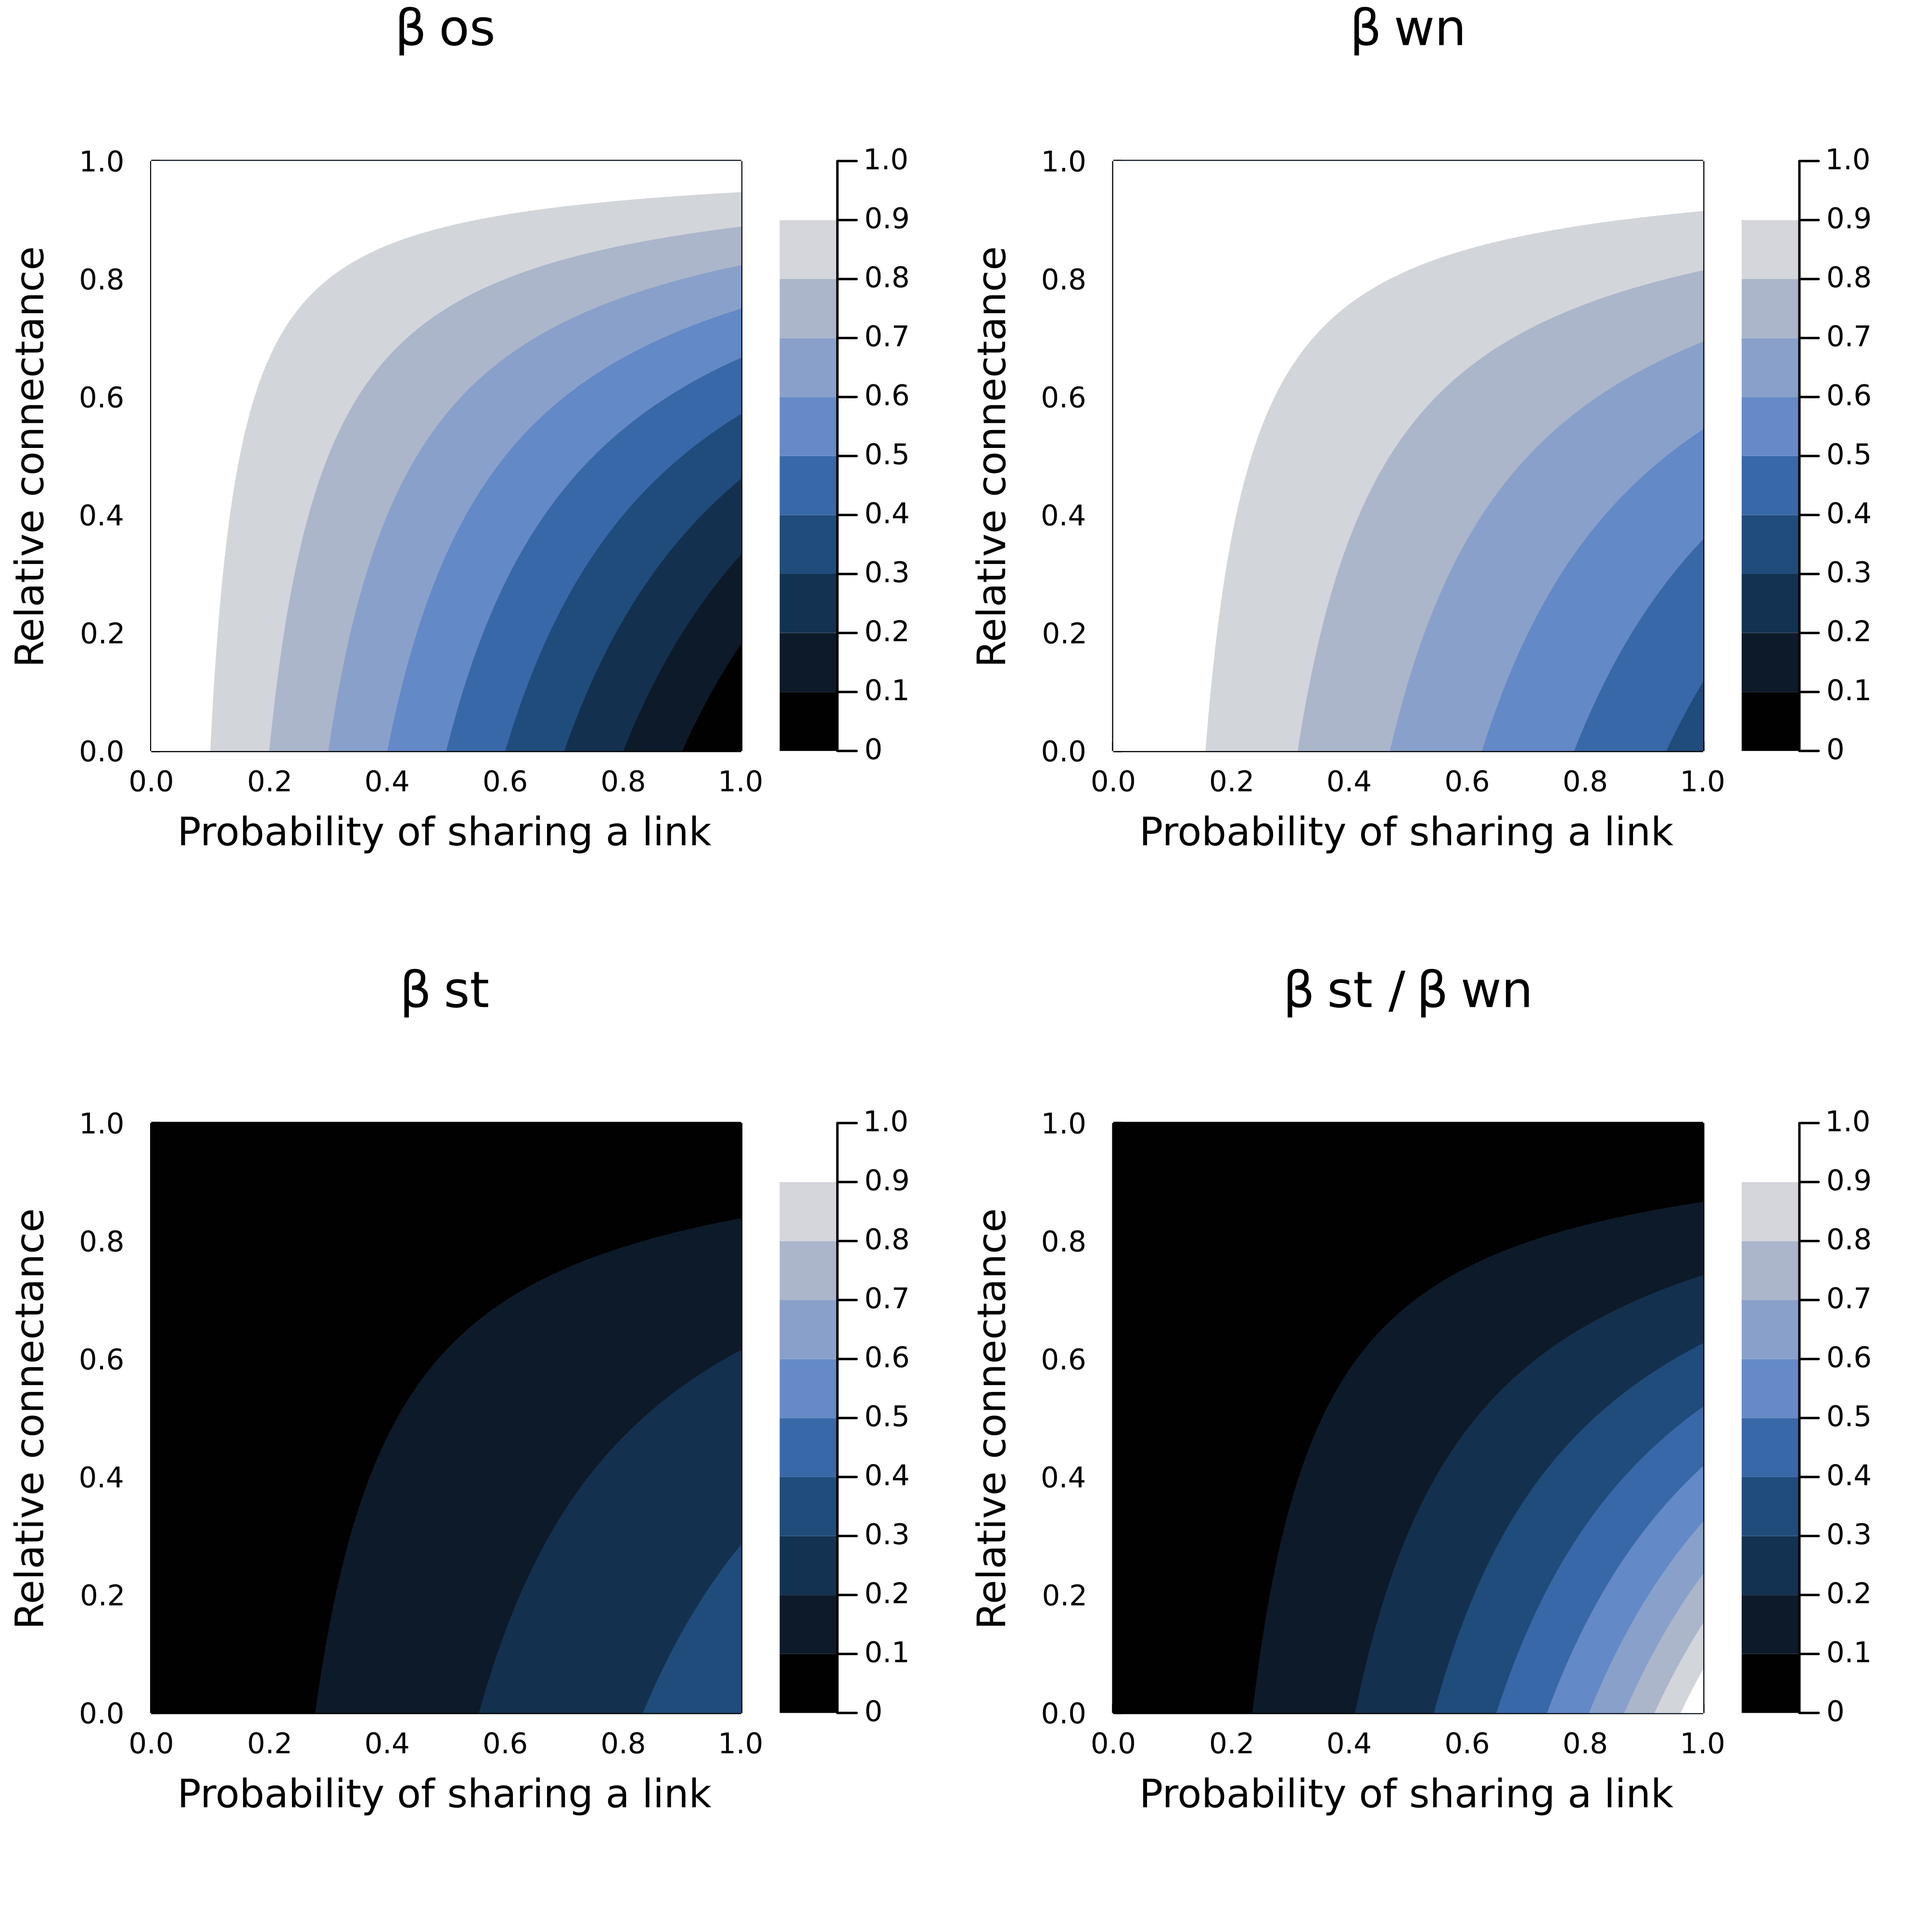
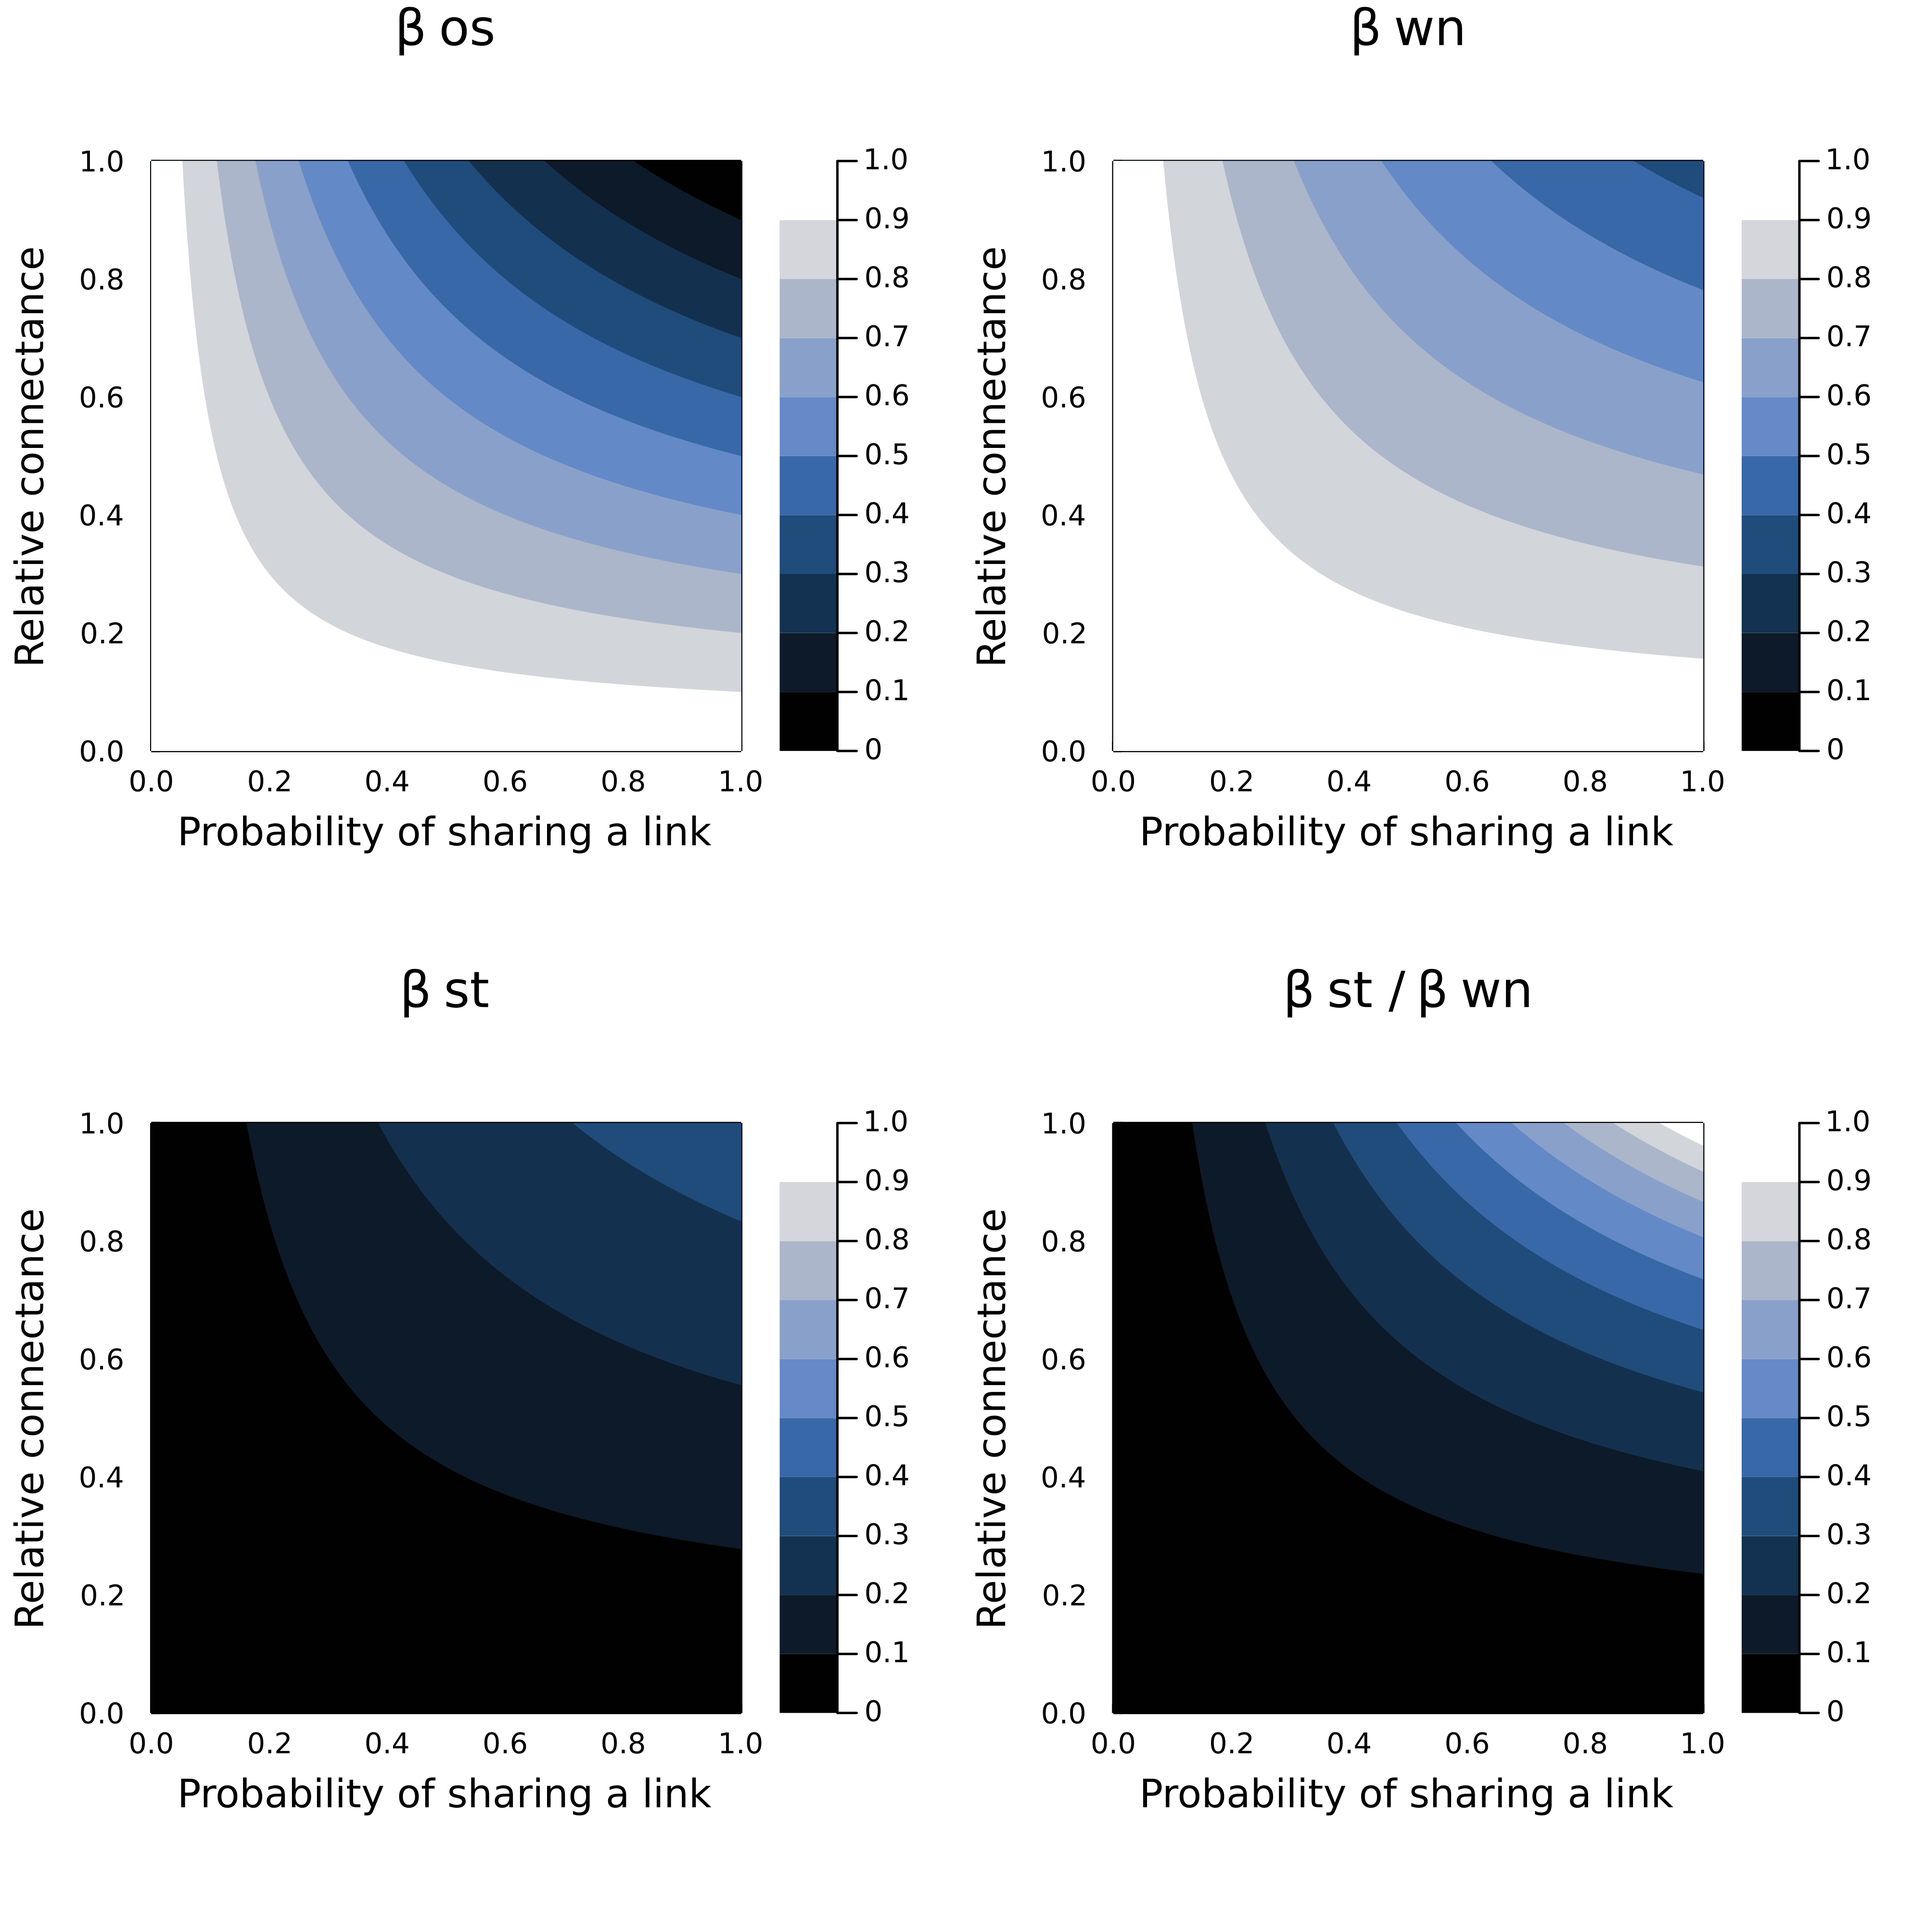
🎓 get figure back

diff --git a/README.md b/README.md
@@ -367,50 +367,40 @@ $r_2 = p^2 - aqp^2 = p^2(1-aq)$, leading to $R = r_1 + r_2 = p^2
 \left[a(1-q)+1\right]$. Using the same approach, we can get $t_1 = a(1-p^2)$ and
 $t_2 = (1-p^2)$, leading to $T = t_1 + t_2 = (1-p^2)(1+a)$.
 
-$$U = 2\rho(1-p)R^2\,.$$
+As in the previous section, we can use these values to write
 
-The part of both networks composed of overlapping species has $\rho pR^2$
-interactions, of which $\rho (1-q) p R^2$ are shared, and $\rho qp R^2$
-underwent rewiring. This leads to
+$$\beta_{os} = 1 - 2\frac{aq}{1+a}\,,$$
 
-$$A = \rho (1-q) p R^2\,,$$
+$$\beta_{wn} = 1 - 2\frac{ap^2q}{1+a}\,,$$
 
 and
 
-$$S = \rho pq R^2\,.$$
+$$\beta_{st} = 2aq\frac{(1-p^2)(1+a)}{a^2 + 2a + 1}\,.$$
 
-Note that we can drop the multiplicative constant $R^2$, making the result
-independent of the size of the network. Based on these components, we can get
-the values of $\beta_{os}$ and $\beta_{wn}$, as presented in @fig:numexp2.
+![Consequences of changing the ratio of connectances between two equally
+species-rich networks on the decomposition of network beta-diversity, assuming
+$p = 0.8$. Networks with stronger differences in connectance will tend to be
+more similar, because the differences in number of links becomes extreme enough
+that the chances of all the links in the sparser network being in the denser
+network increases.](figures/connectance/components.png){#fig:connectance}
 
-![Response of $\beta_{os}$ and $\beta_{wn}$, and the consequences on
-$\beta_{st}$, to changes in rewiring probability ($q$) and probability of
-species sharing ($p$). As expected, $\beta_{os}$ is not affected by species
-turnover, but increases with the rewiring probability. By contrast, $\beta_{wn}$
-increases when the rewiring probability is higher *and* when fewer species are
-shared. This has important consequences for $\beta_{st}$: its value is maximized
-for low species sharing, and decreases for high rewiring
-probability.](figures/numexp2.png){#fig:numexp2}
+The values of these components are visualized in @fig:connectance. The
+introduction of the connectance ratio makes these expressions marginally more
+complex than in the case without differences in connectance, but the noteworthy
+result remains that in the presence of differences of connectance, the value of
+$\beta_{os}$ is still independent from species turnover. In fact, there is an
+important conclusion to be drawn from this expression. The shared species
+component is by definition square, meaning that from an actual measurement of
+$\beta_{os}$ between two networks for which we know the connectance, noted
+$\mathbf{b}_{os}$, we can get the probability of rewiring by reorganizing the
+terms of $\mathbf{b}_{os} = 1 - 2aq/(1+a)$ as
 
-The value of $\beta_{os}$ is entirely unchanged by variations in $p$ (species
-sharing), and responds *only* to changes in $q$ (the probability of rewiring),
-whereas as expected, $\beta_{wn}$ responded to changes in both of these
-parameters: the most dissimilar networks have low species sharing (interactions
-are dissimilar because brought by unique species), and high rewiring (shared
-species do not share interactions). The relative changes in $\beta_{os}$ and
-$\beta_{wn}$ lead to predictable changes in $\beta_{st}$: its value is maximized
-when both rewiring *and* species sharing are low. Increasing rewiring decreases
-the impact of species turnover (because, for an equal number of interactions,
-the dissimilarity of interactins in shared species contributes more to
-$\beta_{wn}$); increasing the chance of sharing species also does decrease
-$\beta_{st}$, trivially because there is no species turnover anymore. Note that
-when using the correction of $\beta_{st}/\beta_{wn}$, the effect of species
-turnover is magnified for low probabilities of re-wiring.
+$$q \approx \frac{(1-\mathbf{b}_{os})(a+1)}{2a}\,,$$
 
-In conclusion, this numerical experiment shows that the decomposition as
-initially presented by @Poisot2012DisSpe, *i.e.* using denominators that make
-sense from a network composition point of view, succeeds at capturing the
-relative effect of turnover and rewiring.
+which gives the probability of rewiring as $1-q$; note that this is an
+*approximation*, as it assumes that the connectances of the entire network and
+the connectances of the shared components are the same.
+
 ## Does the partition of network dissimilarity needs a new normalization?
 
 ### Is this decomposition over-estimating the effect of "rewiring"?
@@ -525,7 +515,7 @@ components. As expected, $\beta_{os}$ is still independent of species turnover,
 and $\beta_{wn}$ increases when species turnover increases, or when the
 connectances become more dissimilar. These figures have been generated with
 $\rho_1 = 0.25$ and $q = 0.15$, and the results are qualitatively robust to
-changes in these parameters.](figures/numexp3.png){#fig:numexp3}
+changes in these parameters.](figures/common_denominator/components.png){#fig:commden}
 
 Although $\beta_{os}$ is only responding to changes in connectance (as is
 expected, seeing that the relative connectances of both networks appear in the
